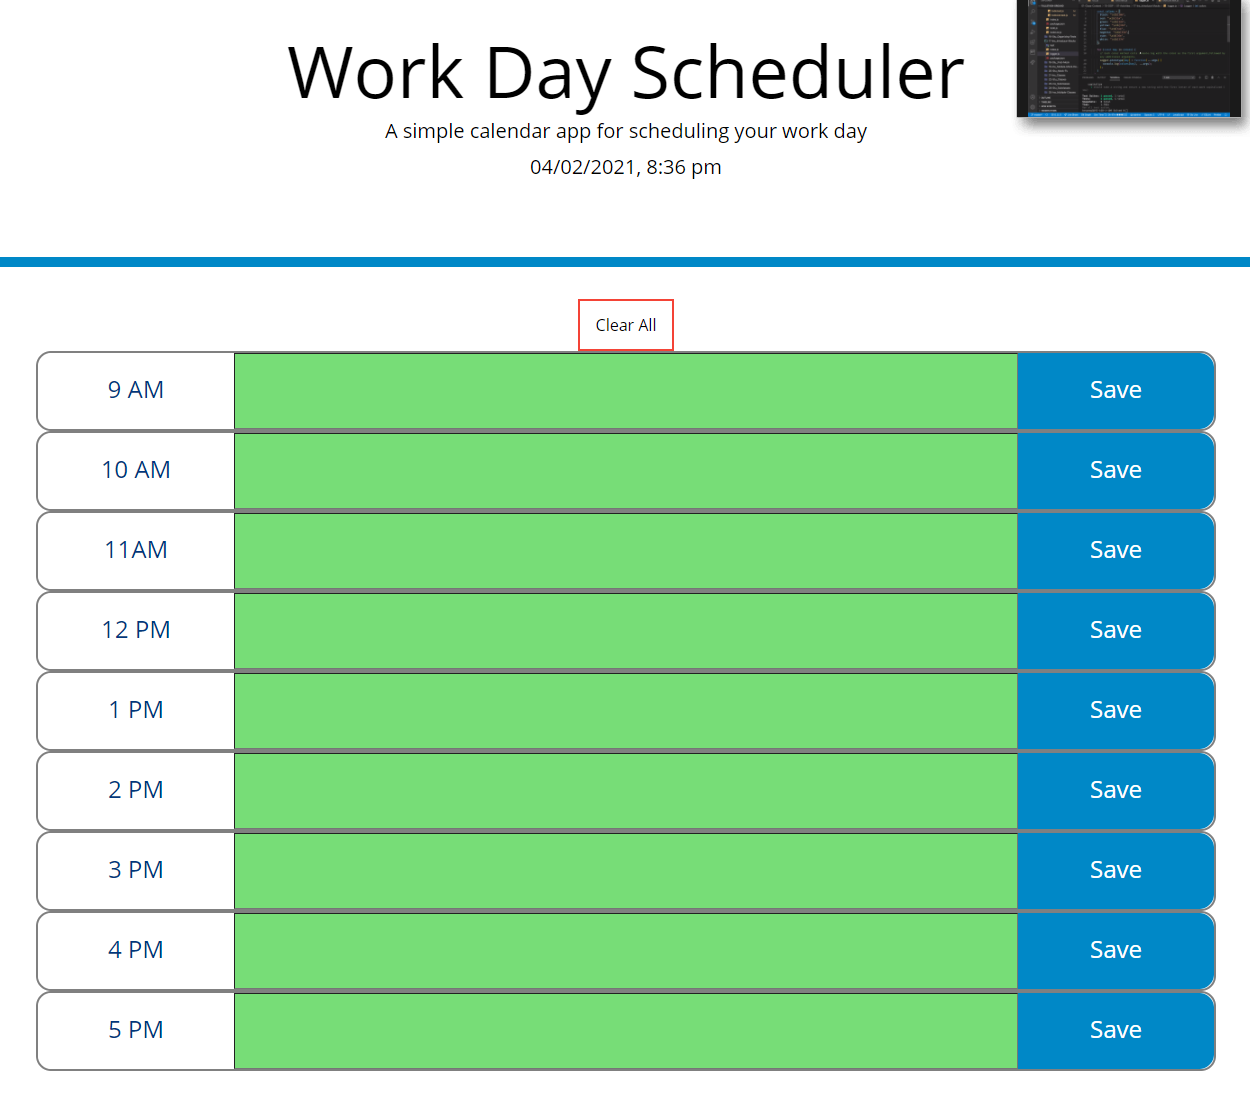
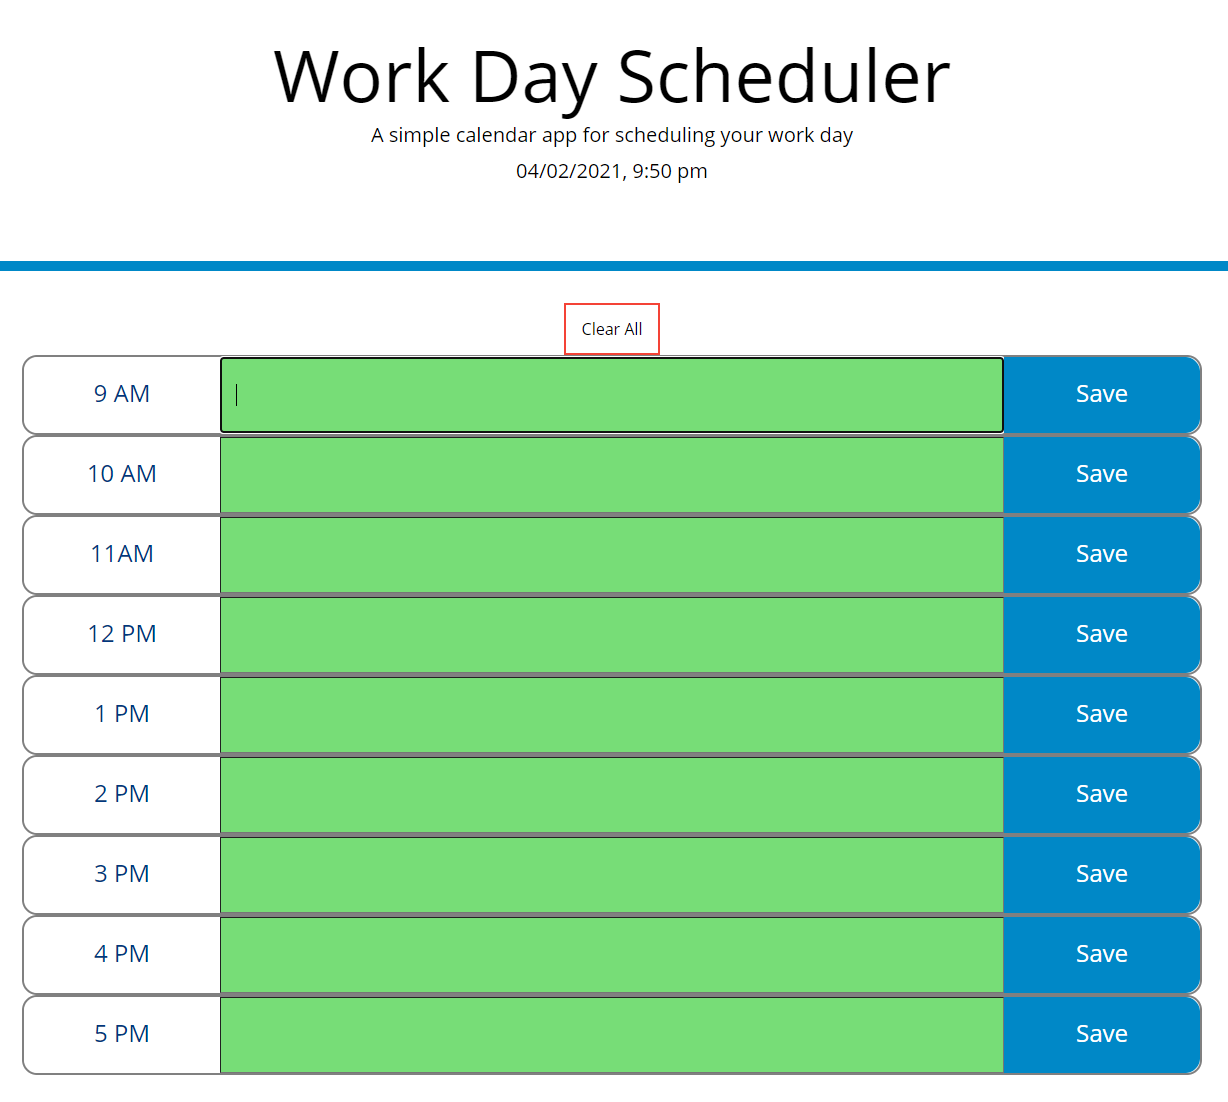
script update

Changed region(s): [[0.0, 0.216, 1.0, 0.9873], [0.2166, 0.0309, 0.7736, 0.1851], [0.8046, 0.0, 1.0, 0.1234]]

diff --git a/index.html b/index.html
@@ -37,6 +37,6 @@
       <Main id = timeblocks class = 'time-block'></Main>
     </div>
     <script src="./assets/moment.js"></script>
-    <script src="./assets/scriptt.js"></script>
+    <script src="./assets/script.js"></script>
   </body>
 </html>
